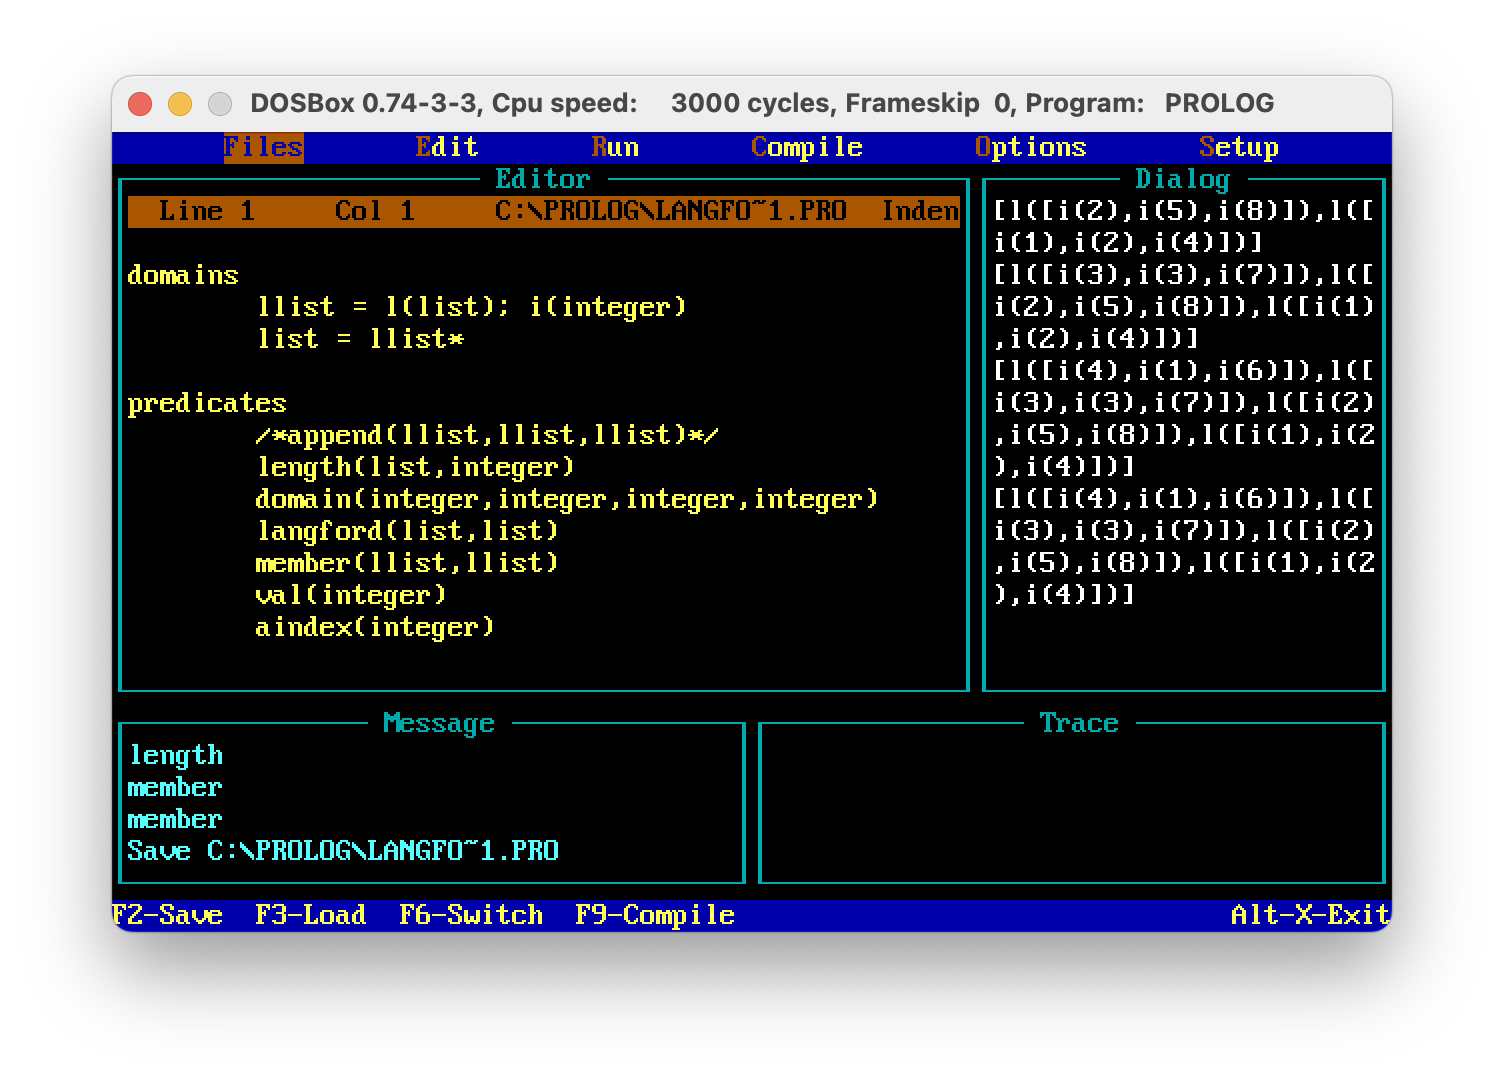
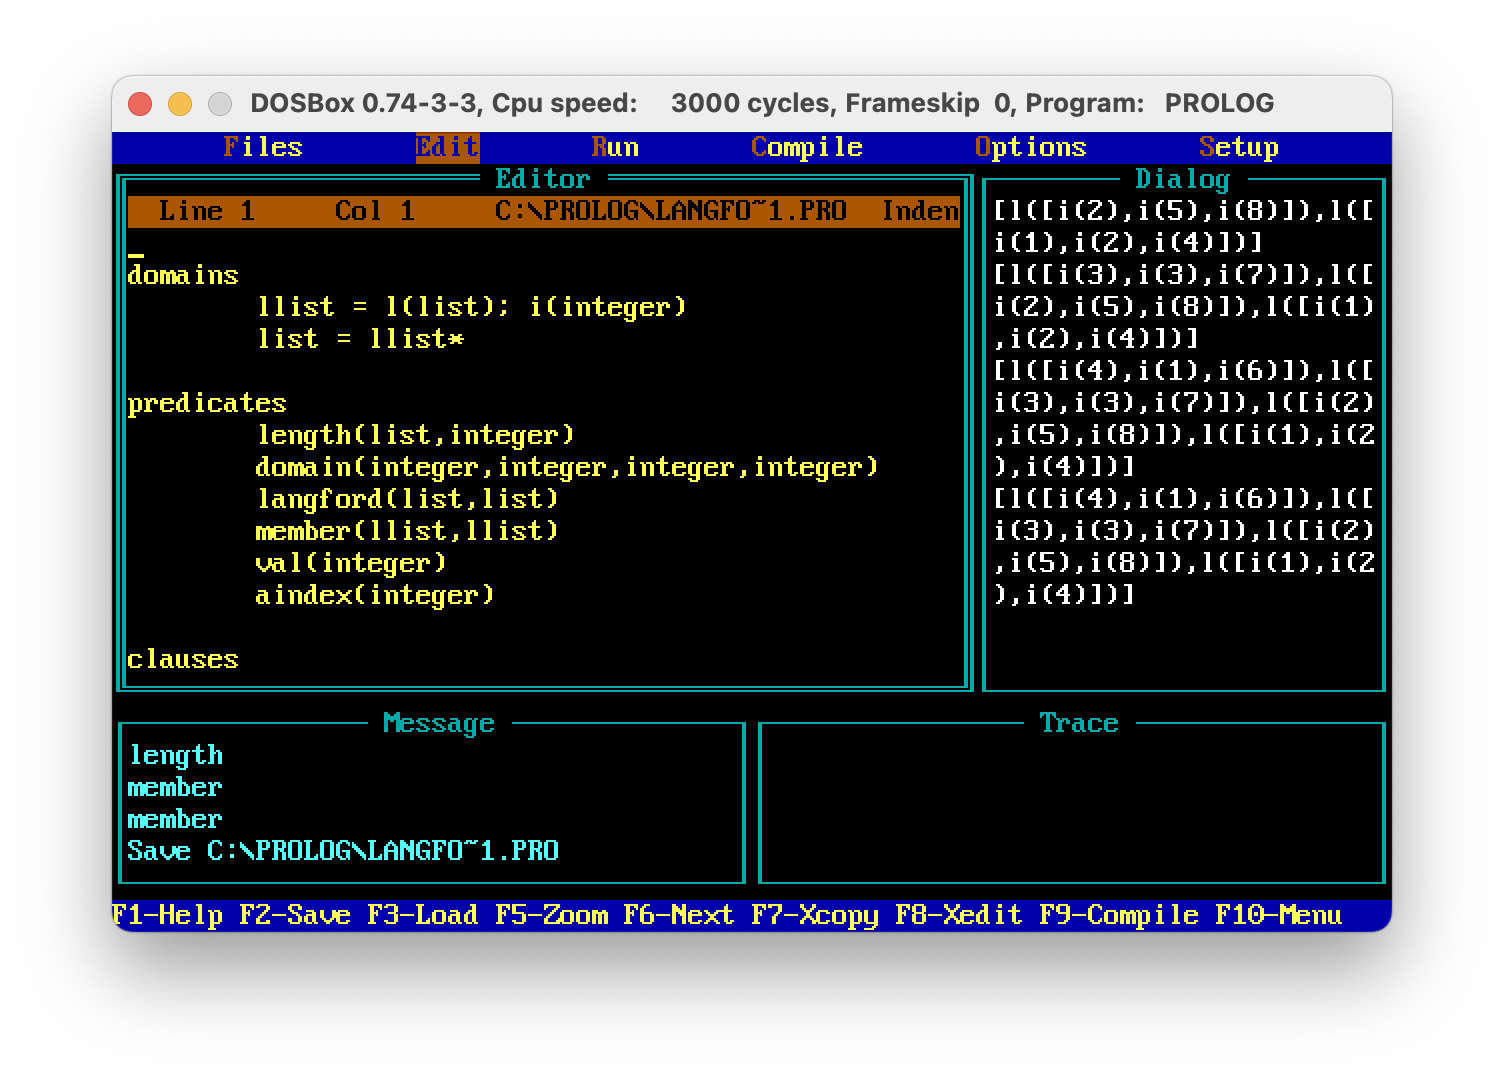
turbo prolog edits

diff --git a/README.md b/README.md
@@ -868,13 +868,14 @@ aindex(5).
 aindex(6).
 ```
 
-Just for fun, we thought we'd try to get this programing running on Turbo Prolog (yes, the 1980s Borland Software). Here it is,
-running in a Dosbox:
+Just for fun, we thought we'd try to get this programing running on Turbo Prolog (yes, the 1980s Borland Software). Here it is (running in a Dosbox on macOS):
 
 ![Turbo Prolog Langford](https://github.com/tbensky/Prolog-CLP/blob/main/turbo_prolog.png)
 
-We had to
-re-write it some, incl
+We had to make several modifications to the code, including Turbo Prolog's domains, predicates, and clauses sections. Also, a compound list (lists within a list)
+had to be handled as per p. 202 of the Turbo Prolog 2.0 Users' Guide (see llist and list in the domains section, and all the `l()` and `i()` wrappers throughout.
+
+Nonetheless, you can see a solution in the "Dialog" window, noteably `[i(4),i(1),i(6)]....` indicating that 4 is to be at positions 1 and 6, and so on.
 
 ```prolog
 % Turbo Prolog (yes, the 1980s software) implementation
